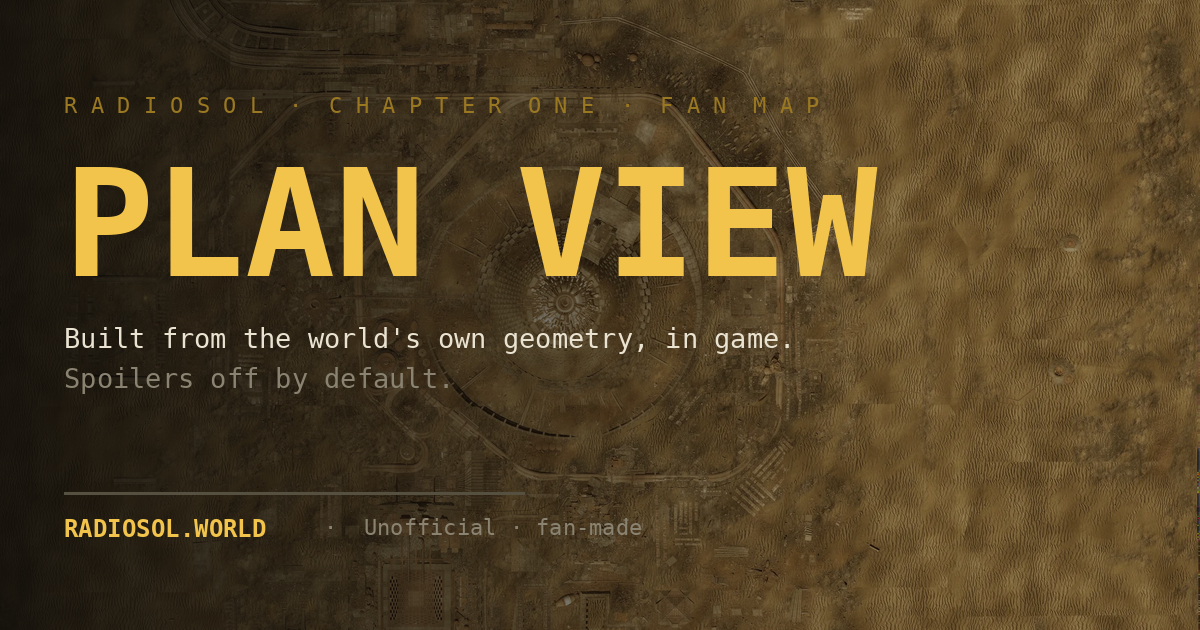
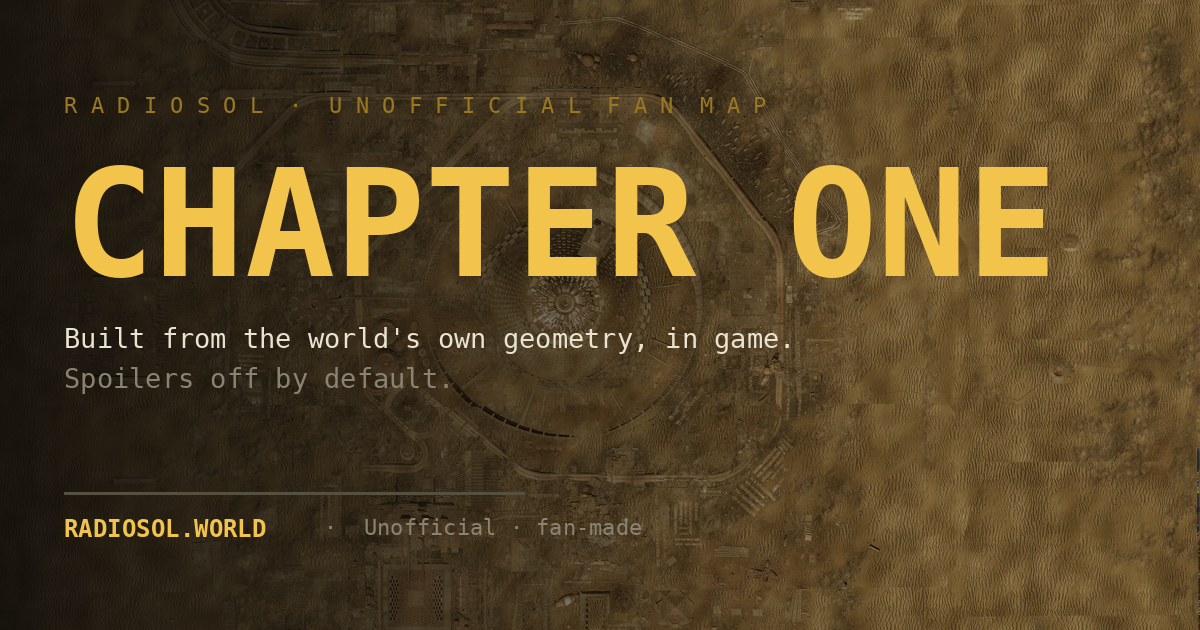
deploy: the headline names the chapter

Changed region(s): [[0.2775, 0.2413, 0.8942, 0.4524], [0.0617, 0.2413, 0.2158, 0.4524], [0.2775, 0.1508, 0.6783, 0.181]]

diff --git a/index.html b/index.html
@@ -18,7 +18,7 @@
 <meta name="description" content="An unofficial, fan-made map of RADIOSOL chapter one: the world photographed from above in-game and stitched, with the sites, machines, hazards and walked underground routes marked. Spoilers off by default.">
 <meta property="og:title" content="A fan map of RADIOSOL chapter one">
 <meta property="og:description" content="An unofficial, fan-made plan of RADIOSOL's chapter one, read from the released world's own geometry. Spoilers off by default.">
-<meta property="og:image" content="https://radiosol.world/og.png?v=3009f5fe">
+<meta property="og:image" content="https://radiosol.world/og.png?v=2205e990">
 <meta name="twitter:card" content="summary_large_image">
 <meta property="og:type" content="website">
 <meta property="og:image:width" content="1200">
@@ -1638,8 +1638,8 @@
            description stands here until the right name is known. Comments
            ship in this file: the correction's provenance belongs in the
            commit log, not in a page a stranger can view-source. -->
-      <p class="eyebrow">RADIOSOL · chapter one</p>
-      <h1>PLAN VIEW</h1>
+      <p class="eyebrow">RADIOSOL · unofficial fan map</p>
+      <h1>CHAPTER ONE</h1>
       <p class="sub">Photographed from above in-game, frame by frame. Site names
         are the game's, from the GIS_2 register.</p>
       <!-- the disclaimer moved up into the fanband (banner 1d) and the
@@ -1792,7 +1792,7 @@
     </div>
     <div class="f-tier" id="ftier" hidden>
       <div class="ft-top">
-        <span class="ft-name">PLAN VIEW</span>
+        <span class="ft-name">CHAPTER ONE</span>
         <span class="ft-lbl">Spoilers</span>
         <span class="ft-ct" id="ftct"></span>
       </div>

diff --git a/series.html b/series.html
@@ -12,7 +12,7 @@
 <link rel="canonical" href="https://radiosol.world/series.html">
 <meta property="og:title" content="RADIOSOL chapter one, in six episodes">
 <meta property="og:description" content="Every chapter-one document, in the order they were written. Six videos, 24 minutes, no commentary.">
-<meta property="og:image" content="https://radiosol.world/og.png?v=3009f5fe">
+<meta property="og:image" content="https://radiosol.world/og.png?v=2205e990">
 <meta property="og:image:width" content="1200">
 <meta property="og:image:height" content="630">
 <!-- large card, not a thumbnail: Discord picks on this tag alone -->
